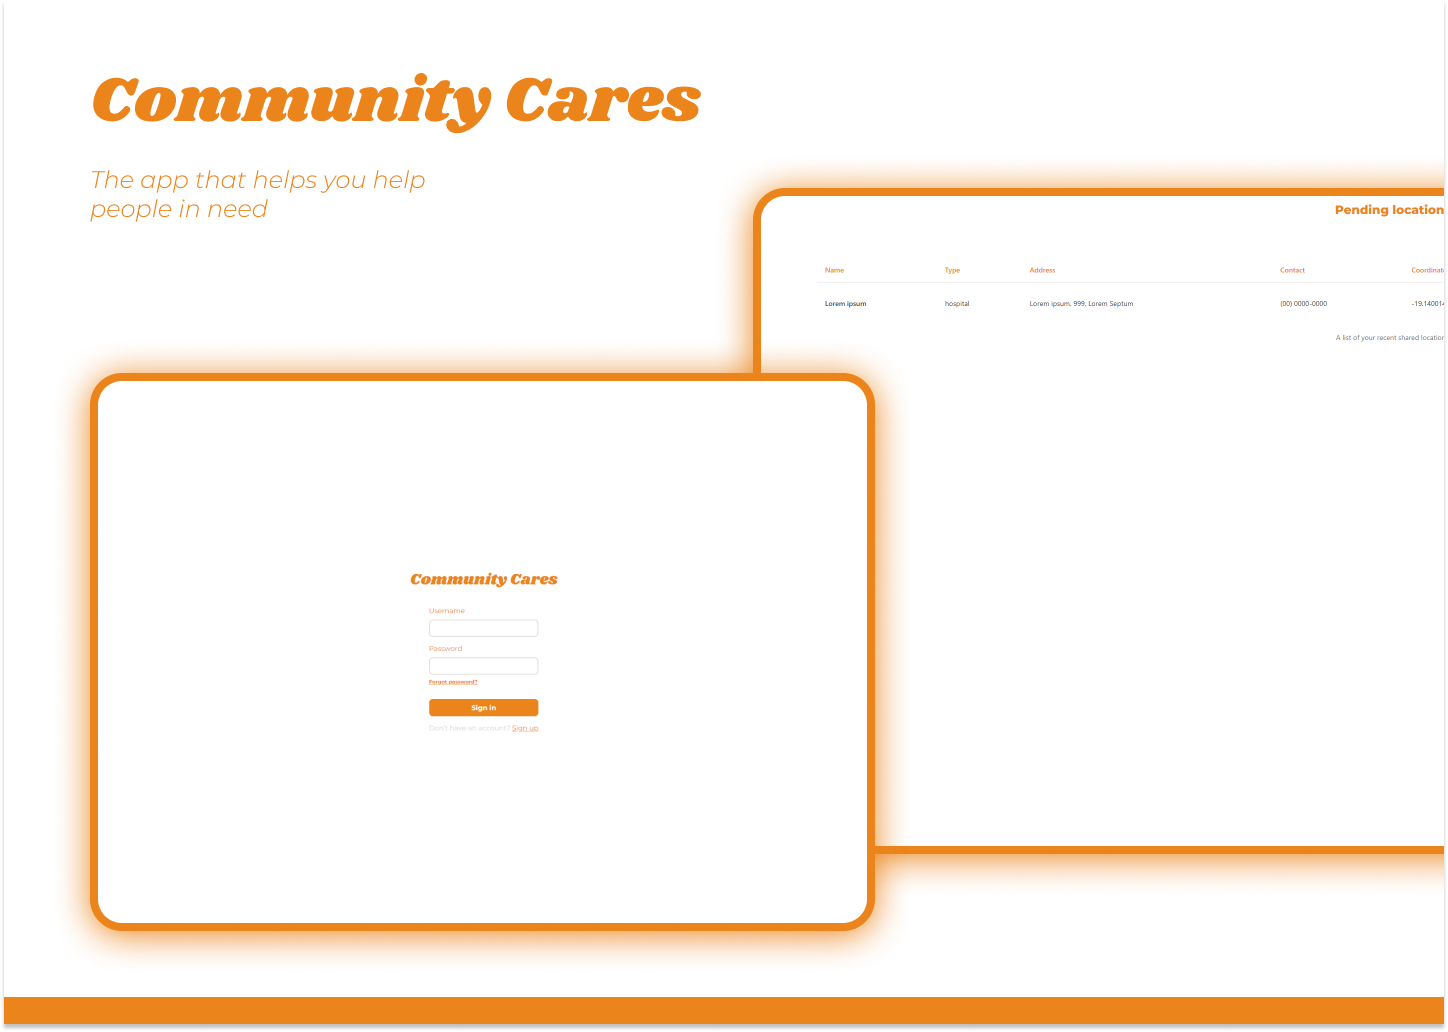
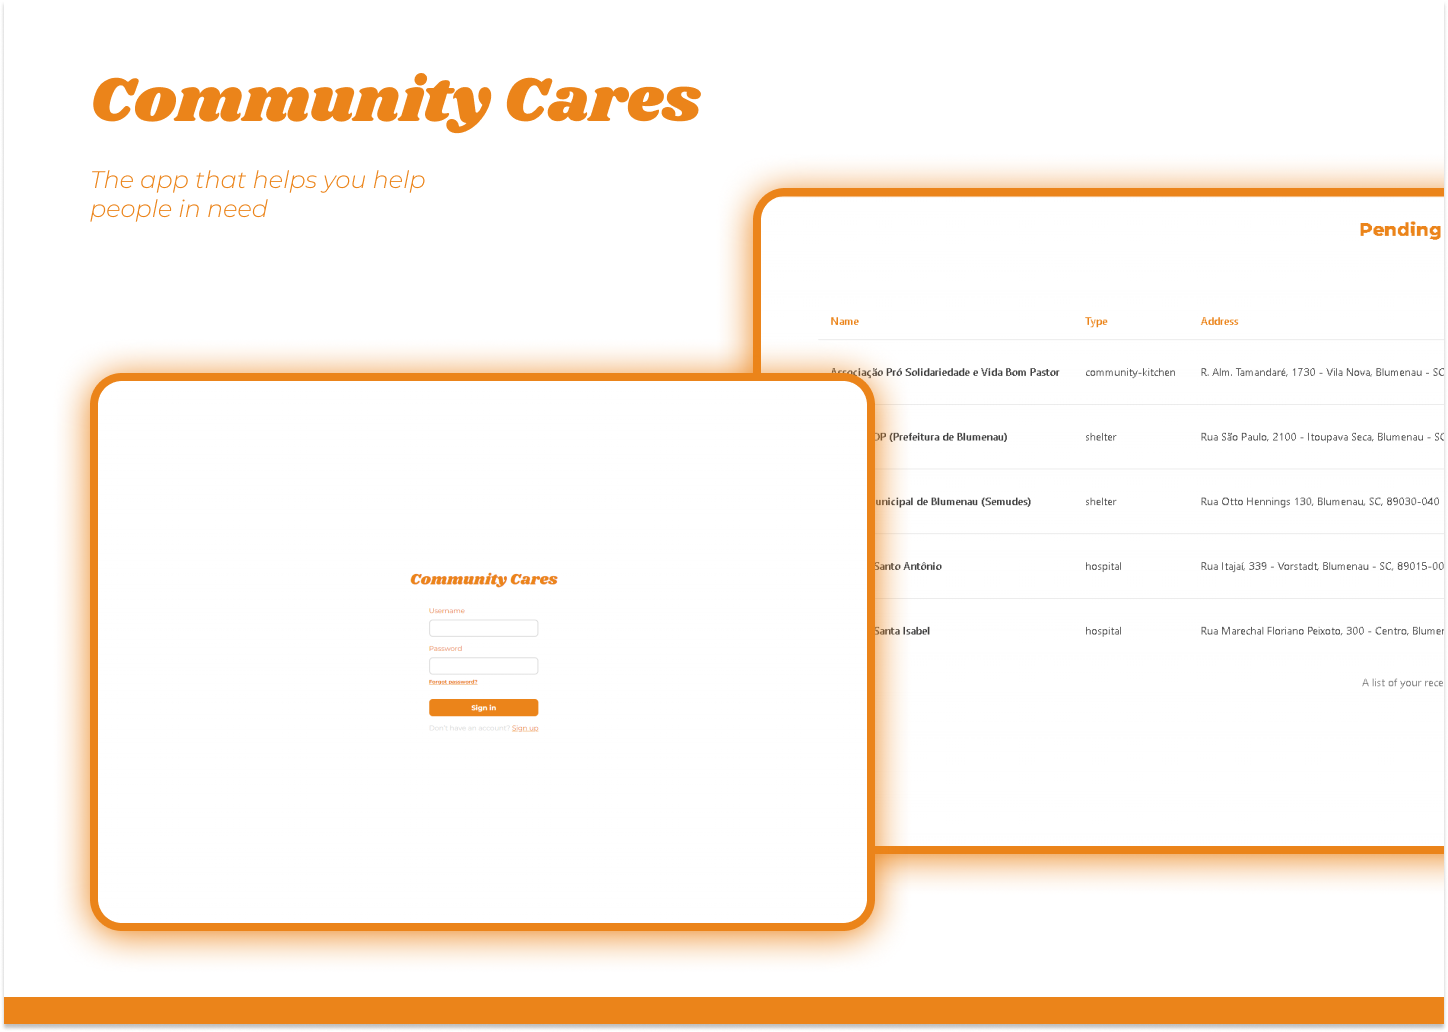
feat(validate): update API endpoints and response handling
- Changed the API endpoint for fetching pending locations to use environment variable.
- Updated the response handling for pending locations to access the payload.
- Modified the API endpoint for posting a new location to use environment variable.
- Updated the API endpoint for deleting a pending location to use environment variable.
- Changed the API endpoint for admin authentication in SignInFormComponent to use environment variable.
- Updated the API endpoint for admin user registration in SignUpFormComponent to use environment variable.

These changes enhance the application's flexibility by utilizing environment variables for API endpoints, improving maintainability and security. The updates also ensure that the application correctly handles responses from the server, leading to a more robust user experience.

diff --git a/src/app/validate/page.tsx b/src/app/validate/page.tsx
@@ -24,10 +24,10 @@ export default function ValidateScreen() {
   async function getPendingLocations() {
     try {
       const response = await axios.get(
-        "https://community-cares-server.onrender.com/pending-locations"
+        `${process.env.NEXT_PUBLIC_API}/pending-locations`
       );
 
-      if (response.status === 200) setPendingLocations(response.data);
+      if (response.status === 200) setPendingLocations(response.data.payload);
     } catch (error) {
       console.error(
         "Unable to retrieve data from pendingLocations /getPendingLocations"
@@ -45,7 +45,7 @@ export default function ValidateScreen() {
 
     try {
       const response = await axios.post(
-        "https://community-cares-server.onrender.com/locations",
+        `${process.env.NEXT_PUBLIC_API}/locations`,
         {
           id: pendingLocation.id,
           name: pendingLocation.name,
@@ -84,7 +84,7 @@ export default function ValidateScreen() {
 
     try {
       const response = await axios.delete(
-        `https://community-cares-server.onrender.com/pending-location/${id}`,
+        `${process.env.NEXT_PUBLIC_API}/pending-locations/${id}`,
         {
           headers: {
             Authorization: `Bearer ${cookieValue}`,

diff --git a/src/components/SignInFormComponent/SignInFormComponent.tsx b/src/components/SignInFormComponent/SignInFormComponent.tsx
@@ -25,7 +25,7 @@ export default function SignInFormComponent() {
     try {
       setIsLoading(true);
       const response = await axios.post(
-        "https://community-cares-server.onrender.com/authenticate-admin",
+        `${process.env.NEXT_PUBLIC_API}/admin-users/authenticate`,
         {
           username: data.username,
           password: data.password,

diff --git a/src/components/SignUpFormComponent/SignUpFormComponent.tsx b/src/components/SignUpFormComponent/SignUpFormComponent.tsx
@@ -24,7 +24,7 @@ export default function SignUpFormComponent() {
     try {
       setIsLoading(true);
       const response = await axios.post(
-        "https://community-cares-server.onrender.com/admin-user",
+        `${process.env.NEXT_PUBLIC_API}/admin-users`,
         {
           name: data.name,
           username: data.username,
